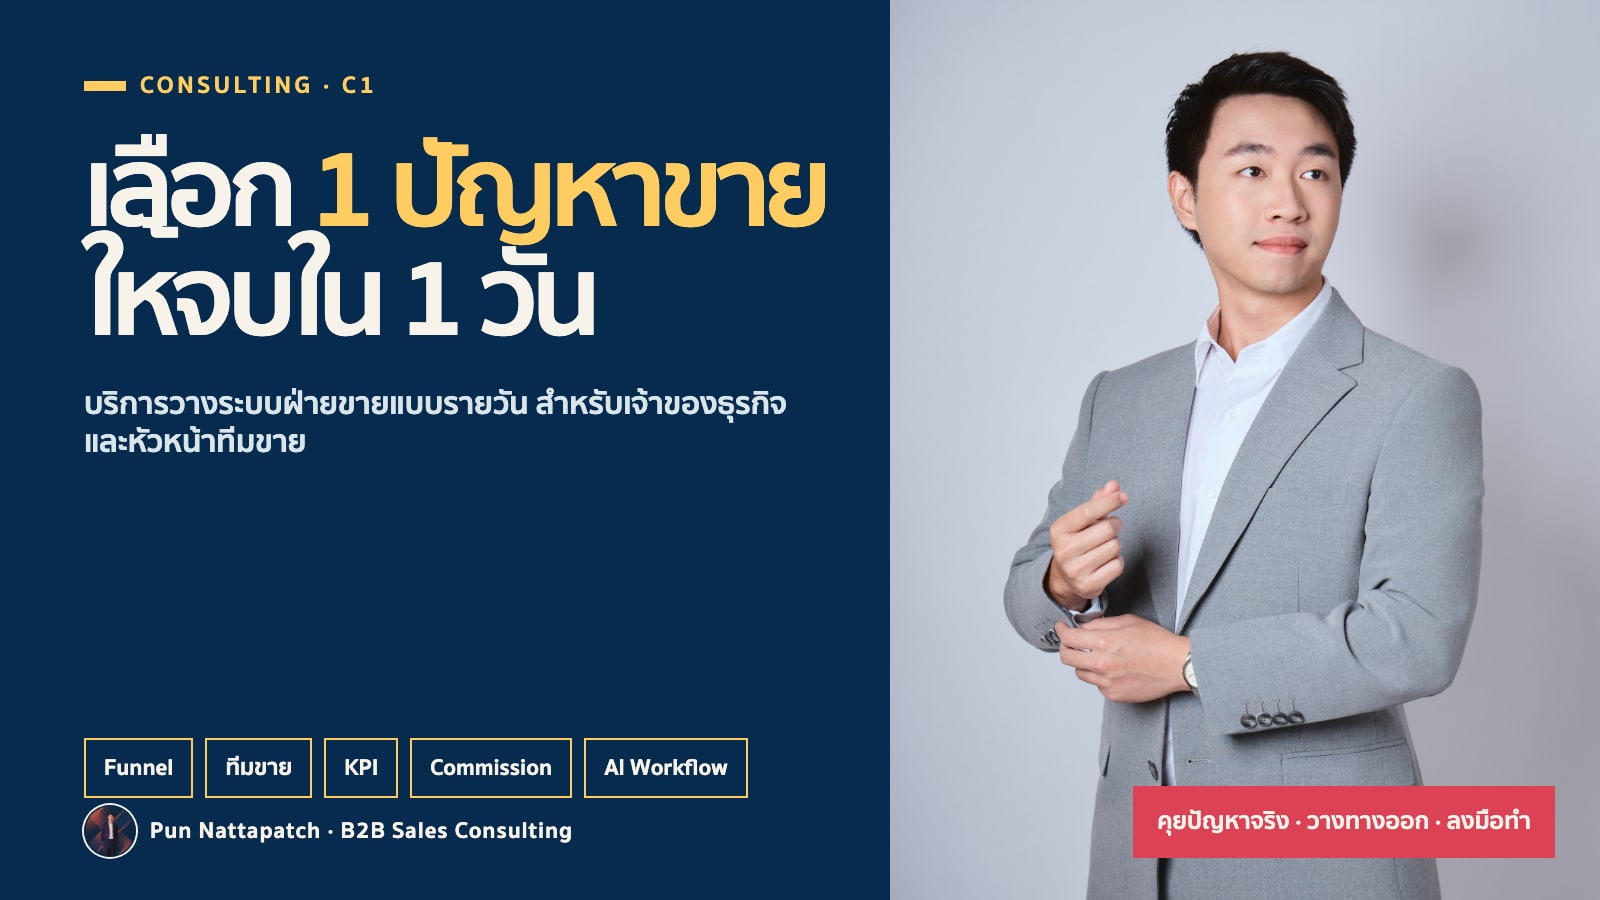
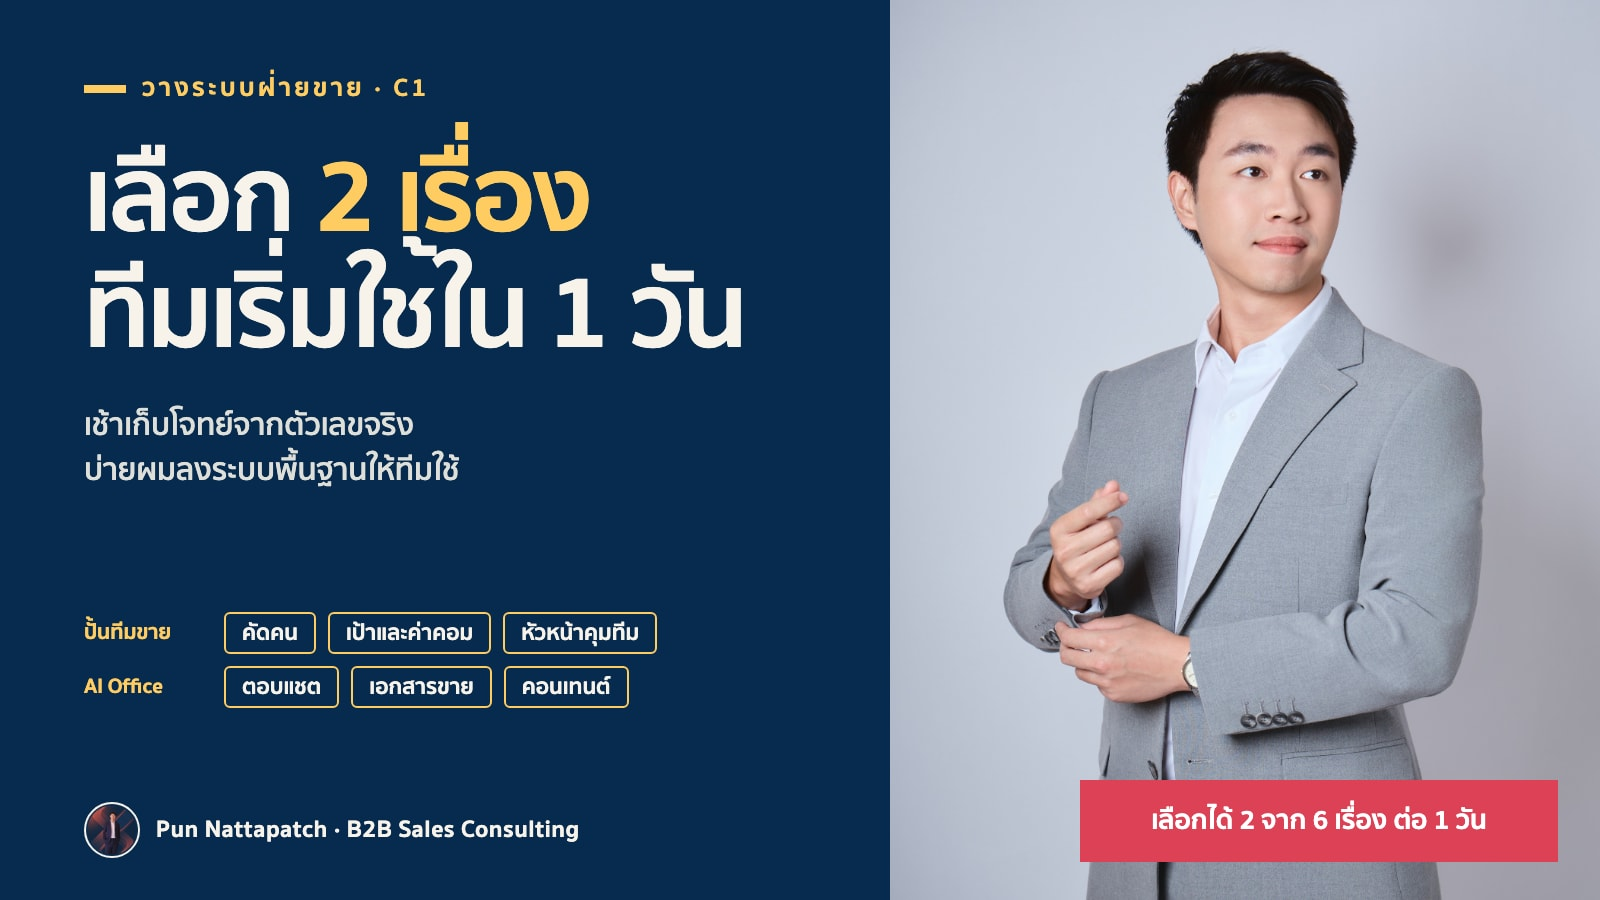
feat(services): C1 thumbnail + two-formats panel for the day-rate model
- new C1 thumbnail "เลือก 2 เรื่อง ทีมเริ่มใช้ใน 1 วัน" (HTML template +
  generator, same real photo panel); also feeds catalog.json image for the bot
- /services C1 section: side panel with ครบรอบ 2 วัน / 1 วัน prices computed
  from catalog + the 6 topics; kicker, FAQ, final CTA and meta description
  drop Training/Consulting/Implementation wording

diff --git a/scripts/c1-service-thumbnail.html b/scripts/c1-service-thumbnail.html
@@ -1,0 +1,60 @@
+<!doctype html>
+<html lang="th" data-theme="light">
+<head>
+  <meta charset="UTF-8" />
+  <meta name="viewport" content="width=device-width, initial-scale=1.0" />
+  <title>C1 service thumbnail</title>
+  <link rel="preconnect" href="https://fonts.googleapis.com" />
+  <link rel="preconnect" href="https://fonts.gstatic.com" crossorigin />
+  <link href="https://fonts.googleapis.com/css2?family=Noto+Sans+Thai:wght@500;600;700;800;900&amp;display=swap" rel="stylesheet" />
+  <link href="https://cdn.jsdelivr.net/npm/daisyui@5.4.7/daisyui.css" rel="stylesheet" type="text/css" />
+  <script src="https://cdn.jsdelivr.net/npm/@tailwindcss/browser@4.1.14"></script>
+  <style type="text/tailwindcss">
+    @theme {
+      --font-body: "Sukhumvit Set", "Noto Sans Thai", sans-serif;
+      --color-pun-navy: #072b4e;
+      --color-pun-coral: #dd4155;
+      --color-pun-ivory: #f7f3ea;
+      --color-pun-gold: #ffcc62;
+    }
+
+    * { box-sizing: border-box; }
+    html, body { width: 1600px; height: 900px; margin: 0; overflow: hidden; }
+    body { font-family: var(--font-body); }
+    .artboard { @apply relative h-[900px] w-[1600px] overflow-hidden bg-pun-navy text-pun-ivory; }
+    /* Photo panel = right side of the approved 2026-09 C1 thumbnail (real photo of Pun) */
+    .photo { @apply absolute right-0 top-0 h-[900px] w-[711px]; }
+    .photo img { @apply block h-full w-full; }
+    .copy { @apply absolute left-[84px] top-[70px] w-[760px]; }
+    .eyebrow { @apply flex items-center gap-4 text-[25px] font-bold tracking-[.14em] text-pun-gold; }
+    .eyebrow::before { content: ""; @apply block h-[8px] w-[42px] bg-pun-gold; }
+    h1 { @apply mt-8 text-[104px] font-extrabold leading-[1.12] tracking-[-.02em]; }
+    h1 em { @apply not-italic text-pun-gold; }
+    .sub { @apply mt-8 max-w-[700px] text-[31px] font-semibold leading-[1.45] text-pun-ivory/90; }
+    .topics { @apply absolute left-[84px] top-[612px] grid w-[760px] gap-3; }
+    .row { @apply flex items-center gap-3; }
+    .row-label { @apply w-[128px] shrink-0 text-[21px] font-bold text-pun-gold; }
+    .chip { @apply rounded-[6px] border-2 border-pun-gold px-4 py-2 text-[22px] font-bold leading-none text-pun-ivory; }
+    .byline { @apply absolute bottom-[42px] left-[84px] flex items-center gap-4 text-[24px] font-bold tracking-[.02em]; }
+    .byline img { @apply h-[56px] w-[56px] rounded-full border-2 border-pun-ivory object-cover; }
+    /* Covers the old badge (x1133–1554, y786–857) completely */
+    .tag { @apply absolute flex items-center justify-center bg-pun-coral text-[27px] font-bold text-white; left: 1080px; top: 780px; width: 478px; height: 82px; }
+  </style>
+</head>
+<body>
+  <main id="c1-thumbnail" class="artboard" data-source-kind="real-portrait-photo">
+    <div class="photo"><img src="./c1-photo-panel.png" alt="" /></div>
+    <section class="copy">
+      <p class="eyebrow" data-fit>วางระบบฝ่ายขาย · C1</p>
+      <h1 data-fit>เลือก <em>2 เรื่อง</em><br />ทีมเริ่มใช้ใน 1 วัน</h1>
+      <p class="sub" data-fit>เช้าเก็บโจทย์จากตัวเลขจริง<br />บ่ายผมลงระบบพื้นฐานให้ทีมใช้</p>
+    </section>
+    <section class="topics">
+      <div class="row" data-fit><span class="row-label">ปั้นทีมขาย</span><span class="chip">คัดคน</span><span class="chip">เป้าและค่าคอม</span><span class="chip">หัวหน้าคุมทีม</span></div>
+      <div class="row" data-fit><span class="row-label">AI Office</span><span class="chip">ตอบแชต</span><span class="chip">เอกสารขาย</span><span class="chip">คอนเทนต์</span></div>
+    </section>
+    <p class="byline" data-fit><img src="../public/pun-avatar.jpg" alt="" />Pun Nattapatch · B2B Sales Consulting</p>
+    <p class="tag" data-fit>เลือกได้ 2 จาก 6 เรื่อง ต่อ 1 วัน</p>
+  </main>
+</body>
+</html>
